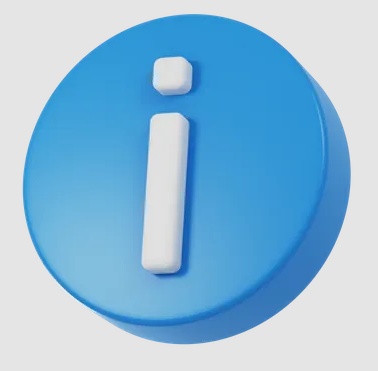
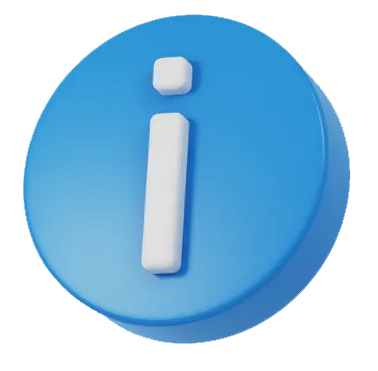
Portal V1.37: reupload de validades.png e informacoes.png; cache-bust nas imagens dos icones

diff --git a/portal.js b/portal.js
@@ -95,24 +95,24 @@ function armaSvg(especie) {
   if (e.includes('revolver')) f = 'revolver';
   else if (e.includes('espingarda')) f = 'espingarda';
   else if (e.includes('carabina') || e.includes('fuzil')) f = 'carabina';
-  return `<img src="${IMG}${f}.png" alt="${esc(especie || 'Arma')}" class="ico-arma" onerror="this.style.display='none'">`;
+  return `<img src="${IMG}${f}.png?v=137" alt="${esc(especie || 'Arma')}" class="ico-arma" onerror="this.style.display='none'">`;
 }
 
 // ---- ÍCONES DAS SEÇÕES (imagens) ----
 const ICONS = {
-  documentos:  `<img src="${IMG}documentos.png" alt="" class="ico-img" onerror="this.style.display='none'">`,
-  processos:   `<img src="${IMG}processos.png" alt="" class="ico-img" onerror="this.style.display='none'">`,
-  validades:   `<img src="${IMG}validades.png" alt="" class="ico-img" onerror="this.style.display='none'">`,
-  armas:       `<img src="${IMG}acervo.png" alt="" class="ico-img" onerror="this.style.display='none'">`,
-  informacoes: `<img src="${IMG}informacoes.png" alt="" class="ico-img" onerror="this.style.display='none'">`,
+  documentos:  `<img src="${IMG}documentos.png?v=137" alt="" class="ico-img" onerror="this.style.display='none'">`,
+  processos:   `<img src="${IMG}processos.png?v=137" alt="" class="ico-img" onerror="this.style.display='none'">`,
+  validades:   `<img src="${IMG}validades.png?v=137" alt="" class="ico-img" onerror="this.style.display='none'">`,
+  armas:       `<img src="${IMG}acervo.png?v=137" alt="" class="ico-img" onerror="this.style.display='none'">`,
+  informacoes: `<img src="${IMG}informacoes.png?v=137" alt="" class="ico-img" onerror="this.style.display='none'">`,
 };
 
 // ---- ÍCONES DOS TIPOS DE ACERVO (imagens) ----
 const ACERVO_ICONS = {
-  atirador: `<img src="${IMG}atirador.png" alt="" class="ico-ac" onerror="this.style.display='none'">`,
-  cacador:  `<img src="${IMG}cacador.png" alt="" class="ico-ac" onerror="this.style.display='none'">`,
-  defesa:   `<img src="${IMG}defesa.png" alt="" class="ico-ac" onerror="this.style.display='none'">`,
-  outro:    `<img src="${IMG}pistola.png" alt="" class="ico-ac" onerror="this.style.display='none'">`,
+  atirador: `<img src="${IMG}atirador.png?v=137" alt="" class="ico-ac" onerror="this.style.display='none'">`,
+  cacador:  `<img src="${IMG}cacador.png?v=137" alt="" class="ico-ac" onerror="this.style.display='none'">`,
+  defesa:   `<img src="${IMG}defesa.png?v=137" alt="" class="ico-ac" onerror="this.style.display='none'">`,
+  outro:    `<img src="${IMG}pistola.png?v=137" alt="" class="ico-ac" onerror="this.style.display='none'">`,
 };
 
 // ---- NAVEGAÇÃO ENTRE MENU E SEÇÕES ----

diff --git a/index.html b/index.html
@@ -16,7 +16,7 @@
   <meta property="og:image:height" content="546" />
   <meta property="og:url" content="https://portal.prbelico.com.br/" />
   <meta property="og:type" content="website" />
-  <link rel="stylesheet" href="styles.css?v=1.36" />
+  <link rel="stylesheet" href="styles.css?v=1.37" />
   <link rel="icon" href="favicon.png" type="image/png" />
 </head>
 <body class="login-body">
@@ -61,7 +61,7 @@
         <span id="btn-texto">Entrar</span>
       </button>
 
-      <div style="text-align:center;font-size:11px;color:var(--muted);margin-top:10px">V1.36</div>
+      <div style="text-align:center;font-size:11px;color:var(--muted);margin-top:10px">V1.37</div>
 
       <div class="error-msg" id="erro"></div>
     </form>

diff --git a/portal.html b/portal.html
@@ -8,7 +8,7 @@
   <meta http-equiv="Pragma" content="no-cache" />
   <meta http-equiv="Expires" content="0" />
   <title>Portal do Cliente — P&amp;R Despachante Bélico</title>
-  <link rel="stylesheet" href="styles.css?v=1.36" />
+  <link rel="stylesheet" href="styles.css?v=1.37" />
   <link rel="icon" href="favicon.png" type="image/png" />
 </head>
 <body class="portal-body">
@@ -36,6 +36,6 @@
 
 </main>
 
-<script src="portal.js?v=1.36"></script>
+<script src="portal.js?v=1.37"></script>
 </body>
 </html>
